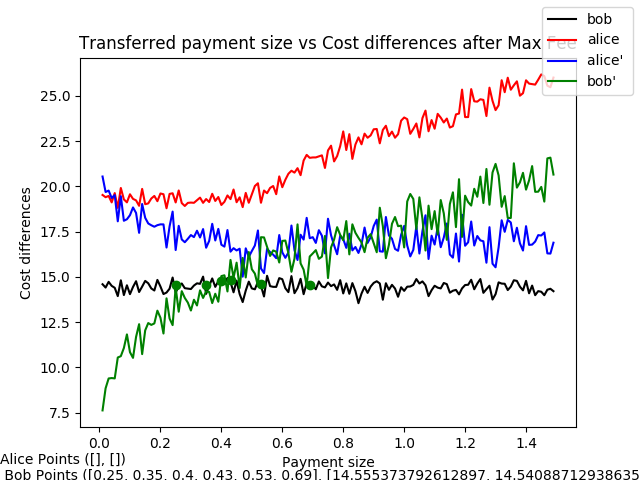
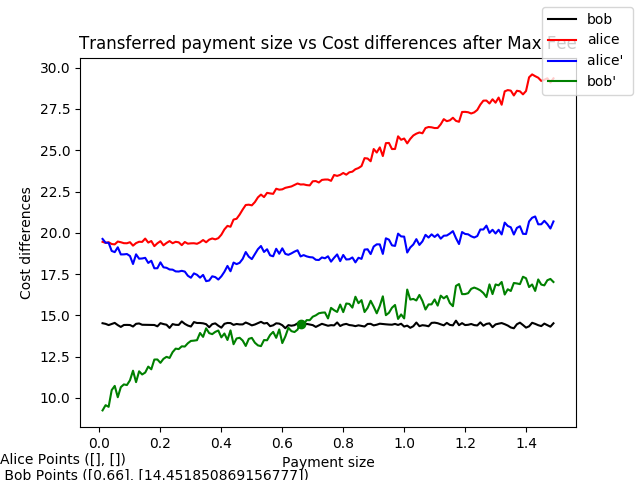
after charging the maximum possible fee, analyze cost based on payment side and frequency

diff --git a/3DonPF.py b/3DonPF.py
@@ -1,0 +1,189 @@
+from simulation_1 import main
+import random
+import matplotlib
+matplotlib.use('Agg')
+from matplotlib import pyplot as plt
+import numpy as np
+import matplotlib.mlab as mlab
+import matplotlib.gridspec as gridspec
+import matplotlib.transforms as mtransforms
+from mpl_toolkits.mplot3d.axes3d import Axes3D
+from matplotlib import cm
+
+############ Helper functions ################
+
+def getHigherMean(list1, list2):
+    avg1 = float(sum(map(sum,list1)))/(len(list1)*len(list1[0]))
+    avg2 = float(sum(map(sum,list2)))/(len(list2)*len(list2[0]))
+
+    if avg1 > avg2:
+        return list1
+    else:
+        return list2
+
+def getLowerMean(list1, list2):
+    avg1 = float(sum(map(sum,list1)))/(len(list1)*len(list1[0]))
+    avg2 = float(sum(map(sum,list2)))/(len(list2)*len(list2[0]))
+
+    if avg1 <= avg2:
+        return list1
+    else:
+        return list2
+
+def calculateMax(list1, list2):
+    lower = getLowerMean(list1, list2)
+    higher = getHigherMean(list1, list2)
+
+    ans = []
+    for i in range(len(lower)):
+        temp = []
+        for j in range(len(lower[i])):
+            temp.append(higher[i][j] -lower[i][j])
+        ans.append(temp)
+    return ans
+
+def chargeFee(bob, fee):
+    ans = []
+    for i in range(len(fee)):
+        temp = []
+        for j in range(len(fee[i])):
+            temp.append(bob[i][j] - fee[i][j])
+        ans.append(temp)
+    return ans
+
+def payFee(alice, fee):
+    ans = []
+    for i in range(len(fee)):
+        temp = []
+        for j in range(len(fee[i])):
+            temp.append(alice[i][j] + fee[i][j])
+        ans.append(temp)
+    return ans
+
+# def getIntersections(list1, list2, ps):
+#     points = []
+
+#     for i in range(1, len(list1)):
+#         if list1[i] == list2[i]:
+#             points.append((i, list2[i]))
+#         elif ((list1[i-1] > list2[i-1]) and (list1[i] < list2[i])): 
+#             # or ((list1[i-1] < list2[i-1]) and (list1[i] > list2[i]))):
+#             points.append((ps[i], (list1[i-1]+list1[i])/2))
+
+#     return points
+
+def transform(points):
+    xs = []
+    ys = []
+
+    for i in points:
+        xs.append(i[0])
+        ys.append(i[1])
+
+    return (xs, ys)
+
+
+############## Constants and global variables ################
+
+num_trial = 10
+
+time = 2
+
+givenP = 0.5
+
+paymentMean = 0.1
+
+paymentSigma = 0.1
+
+psInit = 1
+
+fsInit = 1
+
+psLen = 50
+
+fsLen = 50
+
+
+############# Main functions #####################
+
+def runWithPayment(time):
+    ps = [x* 1.0 /2 for x in range(psInit, psInit+psLen)]
+
+    fs = [x* 1.0 /2 for x in range(fsInit, fsInit+fsLen)]
+    # random.expovariate(givenP)
+    # ps = np.arange(0.0, 1.0 + 0.01, 0.01)
+
+    X = np.array(ps)
+    Y = np.array(fs)
+    X, Y = np.meshgrid(X, Y)
+
+    costs = [[[0 for x in range(psInit, psInit+psLen)] for x in range(fsInit, fsInit+fsLen)] for x in range(0, 6)]
+
+    for i in range(len(fs)):
+        print(str(i))
+
+        for j in range(len(ps)):
+            
+            for k in range(num_trial):
+
+                res = main(p=ps[j], freq=fs[i], timeRun = time)
+                for h in range(len(res)):
+                    costs[h][i][j] += res[h]
+
+            for h in range(len(costs)):
+                costs[h][i][j] /= float(num_trial)
+
+
+    #         # alice0         costs[0] 
+    #         # bob0           costs[1] 
+    #         # alice1         costs[2] 
+    #         # bob1           costs[3] 
+    #         # alice2         costs[4] 
+    #         # bob2           costs[5] 
+    maxFee = calculateMax(costs[2], costs[4])
+
+    # Alice's cost increase while Bob's cost decrease by the fee charged
+    aliceAfter = payFee(costs[0], maxFee)
+    bobAfter = chargeFee(costs[5], maxFee)
+    
+    Z = np.array(bobAfter)
+    U = np.array(aliceAfter)
+
+
+
+    fig = plt.figure(figsize=plt.figaspect(0.5))
+
+    # first plot
+    ax = fig.add_subplot(1, 2, 1, projection='3d')
+    ax.set_xlabel('Payment size')
+    ax.set_ylabel('Frequency')
+    ax.set_zlabel('Bob cost after charging the fee')
+
+    surf = ax.plot_surface(X, Y, Z, rstride=1, cstride=1, cmap=cm.coolwarm,
+                       linewidth=0, antialiased=False)
+    # ax.set_zlim(-1.01, 1.01)
+    fig.colorbar(surf, shrink=0.5, aspect=10)
+
+    # second plot
+    ax = fig.add_subplot(1, 2, 2, projection='3d')
+    ax.set_xlabel('Payment size')
+    ax.set_ylabel('Frequency')
+    ax.set_zlabel('Alice costs after charging the fee')
+
+    # plot a 3D wireframe like in the example mplot3d/wire3d_demo
+    
+    surf = ax.plot_surface(X, Y, U, rstride=1, cstride=1, cmap=cm.coolwarm,
+                       linewidth=0, antialiased=False)
+    # ax.set_zlim(-1.01, 1.01)
+    fig.colorbar(surf, shrink=0.5, aspect=10)
+
+    fig.savefig('3D2.png')
+
+################ Call #####################
+
+runWithPayment(time)
+# runWithFreq()
+
+
+
+

diff --git a/random_payment.py b/random_payment.py
@@ -76,33 +76,33 @@ def transform(points):
 
 alice0, bob0, alice1, bob1, alice2, bob2 = [], [], [], [], [], []
 
-num_trial = 500
+num_trial = 200
 
 time = 50
 
 givenP = 0.5
 
-freqMean = 1.50
+paymentMean = 0.65
 
-freqSigma = 0.01
+paymentSigma = 0.1
 
 
 ############# Main functions #####################
 
 def runWithPayment(time):
-    ps = [x* 1.0 /100 for x in range(1, 150)]
+    ps = np.random.lognormal(paymentMean, paymentSigma)
 
-    f = np.random.lognormal(freqMean, freqSigma)
+    fs = [x* 1.0 / 100  for x in range(1,200)]
     # random.expovariate(givenP)
     # ps = np.arange(0.0, 1.0 + 0.01, 0.01)
 
-    for i in range(len(ps)):
+    for i in range(len(fs)):
         # trial
-        print(str(i))
+        print(i)
         res = [0, 0, 0, 0, 0, 0]
         temp = []
         for k in range(num_trial):
-            temp = main(p=ps[i], freq=f, timeRun = time)
+            temp = main(p = ps, freq=fs[i], timeRun = time)
             for j in range(len(temp)):
                 res[j] += temp[j]
         for j in range(len(res)):
@@ -124,8 +124,8 @@ def runWithPayment(time):
     bobAfter = chargeFee(bob2, maxFee)
     
 
-    alicePoints = transform(getIntersections(alice1, aliceAfter, ps))
-    bobPoints = transform(getIntersections(bob0, bobAfter, ps))
+    alicePoints = transform(getIntersections(alice1, aliceAfter, fs))
+    bobPoints = transform(getIntersections(bob0, bobAfter, fs))
 
     bobxs = bobPoints[0]
     bobys = bobPoints[1]
@@ -135,23 +135,23 @@ def runWithPayment(time):
     aliceBenefit = chargeFee(alice1, aliceAfter)
     bobBenefit = chargeFee(bob0, bobAfter)
 
-    
+
     fig = plt.figure(figsize=plt.figaspect(0.5))
 
     ax = fig.add_subplot(1, 1, 1)
     
-    ax.plot(ps, bob0, "k")
-    ax.plot(ps, alice1, "r")
+    ax.plot(fs, bob0, "k")
+    ax.plot(fs, alice1, "r")
     # ax.plot(ps, bob2, "m")
     # ax.plot(ps, bob1, "k--")
     # ax.plot(ps, alice2, "c--")
-    ax.plot(ps, aliceAfter, "b-")
-    ax.plot(ps, bobAfter, "g-")
+    ax.plot(fs, aliceAfter, "b-")
+    ax.plot(fs, bobAfter, "g-")
     # ax.plot(bobxs, bobys, "go")
     
-    ax.plot(ps, aliceBenefit)
-    ax.plot(ps, bobBenefit)
-    ax.plot(ps, [0 for x in range(len(ps))], "k--")
+    ax.plot(fs, aliceBenefit)
+    ax.plot(fs, bobBenefit)
+    ax.plot(fs, [0 for x in range(len(fs))], "k--")
     ax.plot(alicexs, aliceys, "bo")
 
     trans_offset = mtransforms.offset_copy(ax.transData, fig=fig,
@@ -165,12 +165,12 @@ def runWithPayment(time):
 
 
     ax.set_title('Transferred payment size vs Cost differences after Max Fee')
-    ax.set_xlabel('Payment size')
+    ax.set_xlabel('frequency (lambda)')
     ax.set_ylabel('Cost differences')
 
     # plt.axis([0, 6, 0, 100])
     fig.legend(["bob", "alice", "alice' ", "bob'", "alice benefit", "bob benefit"])
-    fig.savefig('paysFeeBenefit.png')
+    fig.savefig('frequencyBenefit.png')
 
 
 ################ Call #####################

diff --git a/simulation_1.py b/simulation_1.py
@@ -582,6 +582,9 @@ def main(p=0.1, freq=0.5, onlineTX = 5.0, onlineTXTime = 1.0, r = 0.01, timeRun 
 	# return (a1+c1, b1, a2+c2, b2, a3+c3, b3, a4+ c4, b4)
 
 	# max_fee based on network 1 and 2
+	# return (a0+c0, b0, a1+c1, b1, a2+c2, b2)
+
+	# just bob
 	return (a0+c0, b0, a1+c1, b1, a2+c2, b2)
 
 

diff --git a/graphing.py b/graphing.py
@@ -7,6 +7,7 @@ import numpy as np
 import matplotlib.mlab as mlab
 import matplotlib.gridspec as gridspec
 from matplotlib.ticker import (MultipleLocator, AutoMinorLocator)
+from matplotlib.ticker import LinearLocator, FormatStrFormatter
 
 
 def Rand(start, end, num): 
